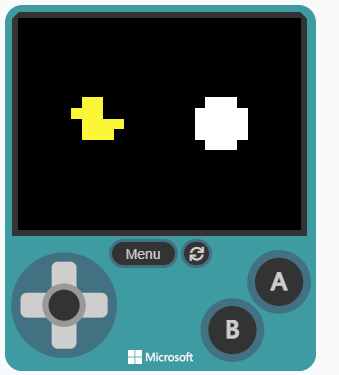
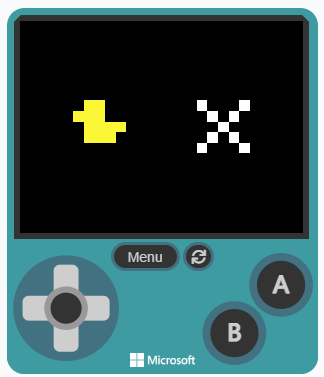
Battle bot 2: updated released screenshot with the white X
Claude-Session: https://claude.ai/code/session_01LZe4qkk7WAUZ396xSApgED

diff --git a/battlebot-2-arcade-controller.md b/battlebot-2-arcade-controller.md
@@ -543,7 +543,7 @@ controller.up.onEvent(ControllerButtonEvent.Released, function () {
 ## Step 7: Try It
 In the simulator, **hold** the up arrow key, then **let go**. Watch the picture.
 
-![Holding up: the arrow shows](https://raw.githubusercontent.com/cggs-matthew-pham/cggs-stem-club-arcade/main/static/images/sim-holding-up.png) ![Let go: the stop sign shows](https://raw.githubusercontent.com/cggs-matthew-pham/cggs-stem-club-arcade/main/static/images/sim-released.png)
+![Holding up: the arrow shows](https://raw.githubusercontent.com/cggs-matthew-pham/cggs-stem-club-arcade/main/static/images/sim-holding-up.png) ![Let go: the stop X shows](https://raw.githubusercontent.com/cggs-matthew-pham/cggs-stem-club-arcade/main/static/images/sim-released.png)
 
 #### ~ tutorialhint
 - Finger down: **pressed** runs → arrow
